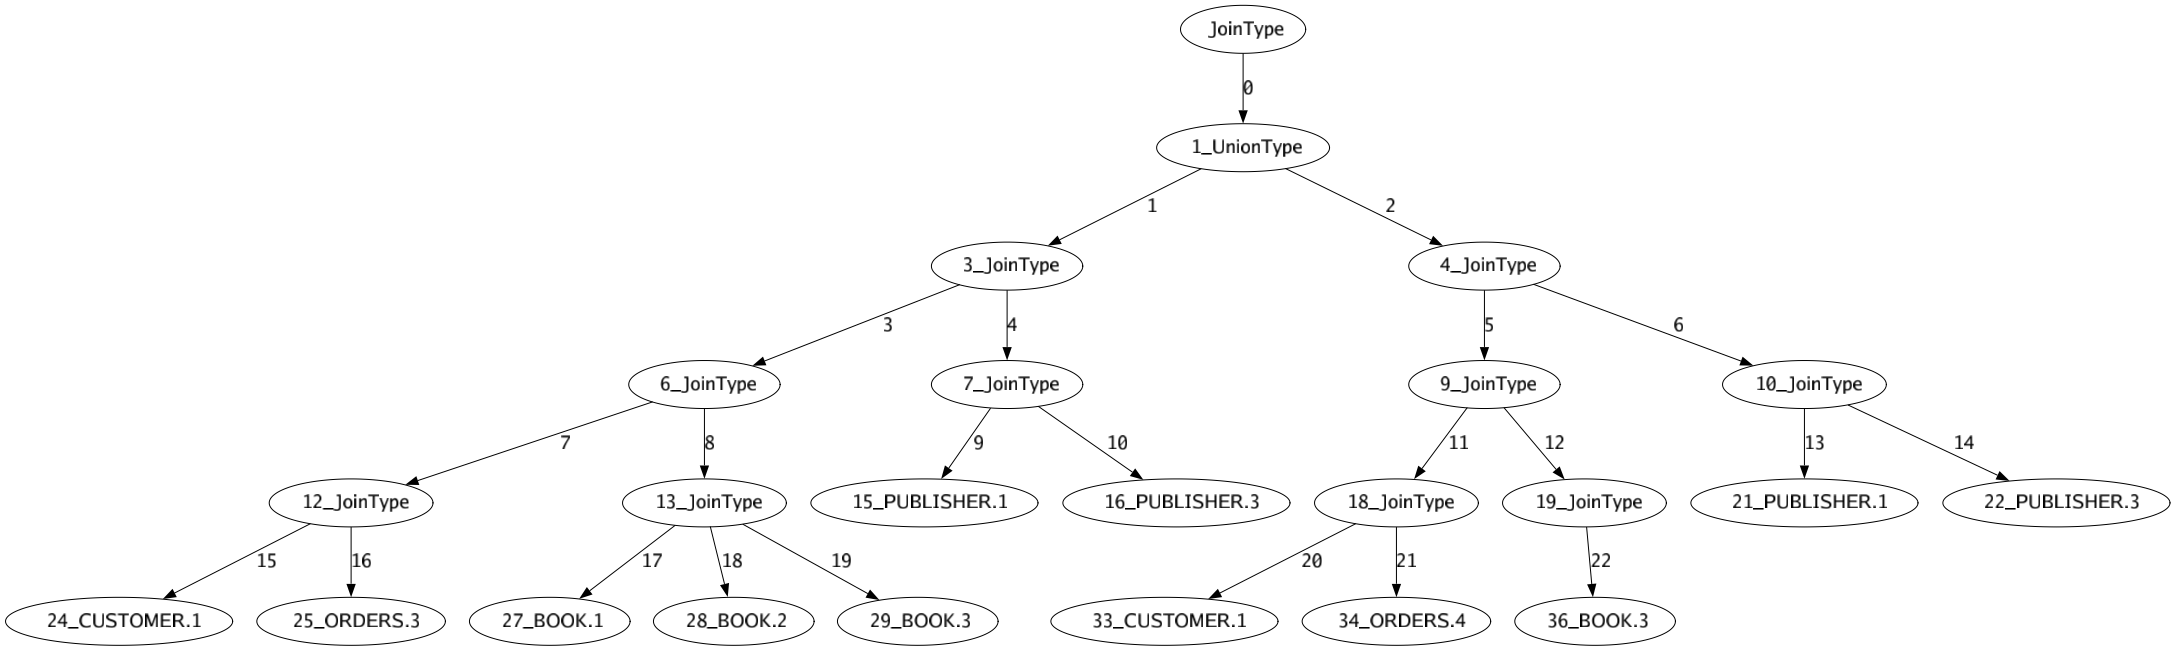
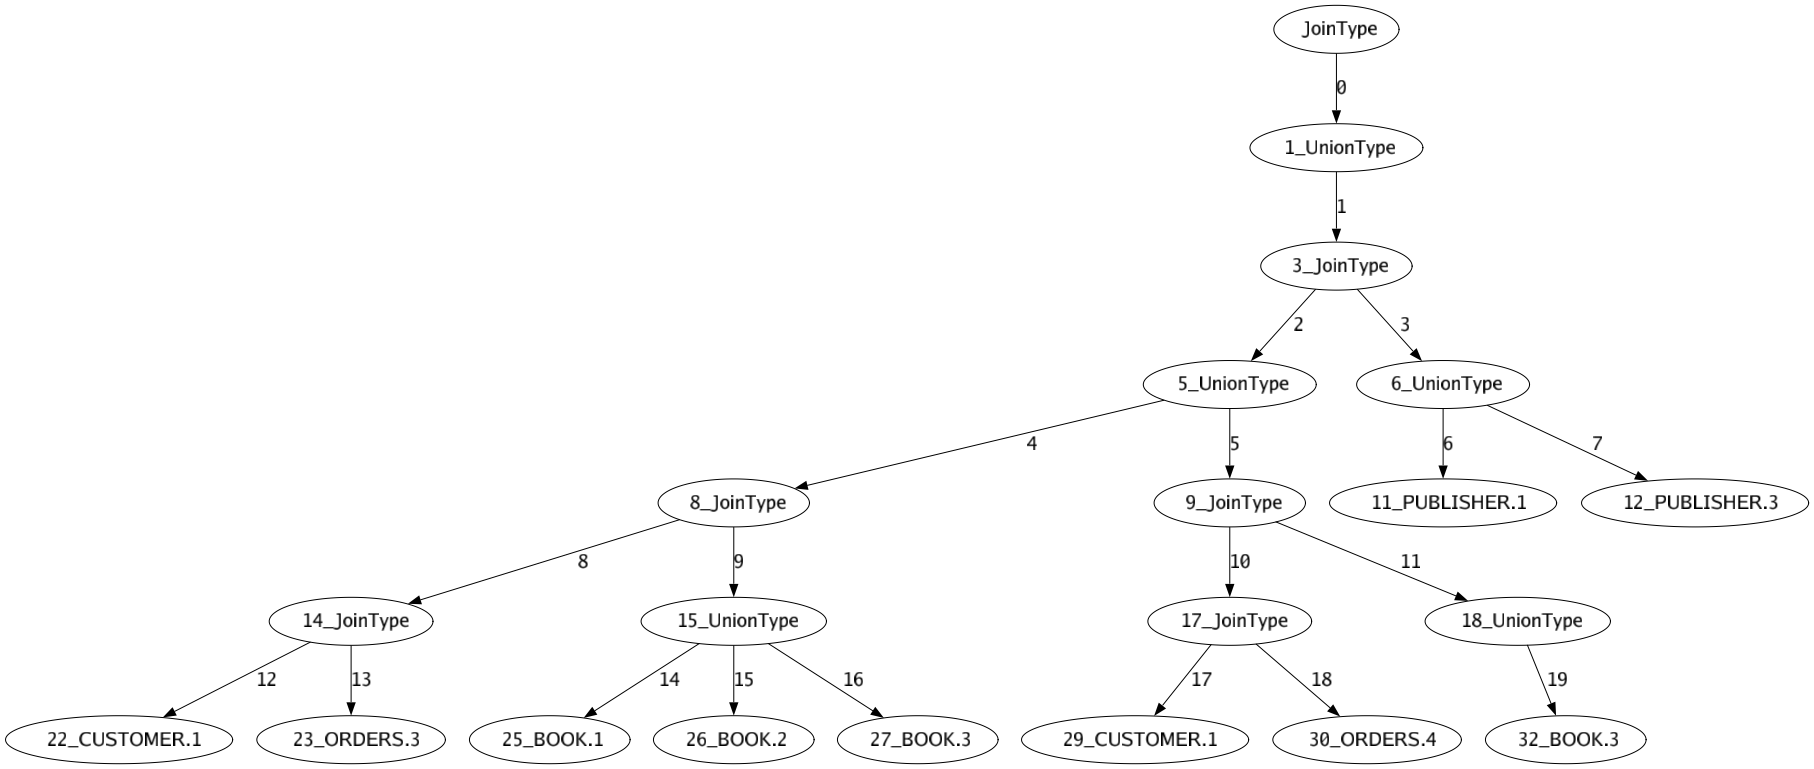
fix bug

diff --git a/plan/plan_test.go b/plan/plan_test.go
@@ -541,15 +541,6 @@ func PrintPlanTree(p *plan.PlanTreeNode) string {
 	return result
 }
 
-// type PrintTree struct {
-// 	children []*PrintTree
-// 	node     *cgraph.Node
-// }
-
-// func PrintPlanTreePlot(p *plan.PlanTreeNode) {
-
-// }
-
 func PrintPlanTreePlot(p *plan.PlanTreeNode) string {
 	edge_id := 0
 	node_id := 0
@@ -578,22 +569,10 @@ func PrintPlanTreePlot(p *plan.PlanTreeNode) string {
 
 		for index_, v := range queue {
 			//
-			if v.IsPruned {
-				continue
-			}
-
-			// var cur_node_val string
-			// if v.Type == plan.DataSourceType {
-			// 	cur_node_val = v.Type.String() + "[" + v.FromTableName + "]" + " "
-			// } else if v.Type == plan.JoinType || v.Type == plan.UnionType {
-			// 	cur_node_val = v.Type.String() + "[" + v.FromTableName + "]" + " "
-			// } else {
-			// 	cur_node_val = v.Type.String() + " "
+			// if v.IsPruned {
+			// 	continue
 			// }
 
-			// result += cur_node_val
-
-			// graphvis_queue[index_].Set(strconv.Itoa(node_id), cur_node_val)
 			node_id++
 
 			nums := v.GetChildrenNum()
@@ -602,11 +581,26 @@ func PrintPlanTreePlot(p *plan.PlanTreeNode) string {
 			}
 			for i := 0; i < nums; i++ {
 				cur_node := v.GetChild(i)
-
-				cur_val := cur_node.FromTableName
-				if strings.Contains(cur_val, "|") {
-					cur_val = cur_node.Type.String()
+				var cur_val string
+				if cur_node.Type == plan.ProjectionType {
+					cur_val = "Proj.["
+					for _, col_ := range cur_node.ColsName {
+						cur_val += col_ + " "
+					}
+					cur_val += "]"
+				} else if cur_node.Type == plan.SelectType {
+					cur_val = "Sel.["
+					for _, cond_ := range cur_node.ConditionsStr {
+						cur_val += cond_ + " "
+					}
+					cur_val += "]"
+				} else {
+					cur_val = cur_node.FromTableName
+					if strings.Contains(cur_val, "|") {
+						cur_val = cur_node.Type.String()
+					}
 				}
+
 				cur_node_graphvis, err := graph.CreateNode(strconv.Itoa(node_id) + "_" + cur_val)
 				node_id++
 
@@ -847,6 +841,23 @@ func GetCondition(expr *ast.BinaryOperationExpr) (ColType, ColType,
 	return left, right, left_attr, right_attr, left_val, right_val, nil
 }
 
+func TransExprNode2Str(expr *ast.BinaryOperationExpr) string {
+	left, right, left_attr, right_attr, _, right_val, _ := GetCondition(expr)
+	var left_str string
+	var right_str string
+
+	if left == AttrType && right == ValueType {
+		left_str = left_attr.Name.String()
+		right_str = right_val.GetDatumString() + strconv.Itoa(int(right_val.GetInt64()))
+	} else if left == AttrType && right == AttrType {
+		left_str = left_attr.Name.String()
+		right_str = right_attr.Name.String()
+	} else {
+		fmt.Println("not supported")
+	}
+	return left_str + " " + expr.Op.String() + " " + right_str
+}
+
 func PushDownPredicates(ctx Context, frag_node *plan.PlanTreeNode, where *plan.PlanTreeNode) (err error) {
 	for index_, cond_ := range where.Conditions {
 		expr, ok := cond_.(*ast.BinaryOperationExpr)
@@ -863,6 +874,7 @@ func PushDownPredicates(ctx Context, frag_node *plan.PlanTreeNode, where *plan.P
 			cur_table_name := strings.ToUpper(left_attr.Name.Table.String())
 			if strings.Contains(frag_node.FromTableName, cur_table_name) {
 				frag_node.Conditions = append(frag_node.Conditions, expr)
+				frag_node.ConditionsStr = append(frag_node.ConditionsStr, TransExprNode2Str(expr))
 				fmt.Println("Condition [" + strconv.FormatInt(int64(index_), 10) + "] adds to " + frag_node.FromTableName)
 			}
 
@@ -1401,11 +1413,13 @@ func PredicatePruning(ctx Context, from *plan.PlanTreeNode, where *plan.PlanTree
 	return PrunedNodeName, UnPrunedNodeName, err
 }
 
-func GetJoinSeq(ctx Context, from *plan.PlanTreeNode, where *plan.PlanTreeNode, PrunedNodeName []string) (mapset.Set, error) {
+func GetJoinSeq(ctx Context, from *plan.PlanTreeNode, where *plan.PlanTreeNode, PrunedNodeName []string) ([]string, error) {
 	// join sequence: A = B
 	var err error
-	join_seq := mapset.NewSet()
-	join_table_set := mapset.NewSet()
+	var join_seq []string
+	var join_table_set []string
+	// join_seq := mapset.NewSet()
+	// join_table_set := mapset.NewSet()
 
 	for _, cond_ := range where.Conditions {
 		// join table by the where predicates
@@ -1426,10 +1440,14 @@ func GetJoinSeq(ctx Context, from *plan.PlanTreeNode, where *plan.PlanTreeNode, 
 			}
 			//
 			join_str := l_table + "=" + r_table
-			if !join_seq.Contains(join_str) {
-				join_seq.Add(join_str)
-				join_table_set.Add(l_table)
-				join_table_set.Add(r_table)
+			if FindStr(join_seq, join_str) == -1 {
+				// if !join_seq.Contains(join_str) {
+				// join_seq.Add(join_str)
+				join_seq = append(join_seq, join_str)
+				join_table_set = append(join_table_set, l_table)
+				join_table_set = append(join_table_set, r_table)
+				// join_table_set.Add(l_table)
+				// join_table_set.Add(r_table)
 			}
 		}
 	}
@@ -1437,21 +1455,26 @@ func GetJoinSeq(ctx Context, from *plan.PlanTreeNode, where *plan.PlanTreeNode, 
 	// get join from the remaining table
 	for i := 0; i < from.GetChildrenNum(); i++ {
 		child := from.GetChild(i)
-		if join_table_set.Contains(child.FromTableName) {
+		// if join_table_set.Contains(child.FromTableName) {
+		if FindStr(join_table_set, child.FromTableName) != -1 {
 			continue
 		} else {
 			//
-			iter := join_table_set.Iterator()
-			for elem := range iter.C {
-				cur_head_table := elem.(*string)
-				join_str := *cur_head_table + "=" + child.FromTableName
-				if join_seq.Contains(join_str) {
+			// iter := join_table_set.Iterator()
+			// for elem := range iter.C {
+			for _, elem := range join_table_set {
+				cur_head_table := elem // elem.(*string)
+				join_str := cur_head_table + "=" + child.FromTableName
+
+				if FindStr(join_seq, join_str) != -1 {
+					// if join_seq.Contains(join_str) {
 					return join_seq, errors.New("join_seq.Contains(join_str) should not contain" + join_str)
 				}
-
-				join_seq.Add(join_str)
-				join_table_set.Add(child.FromTableName)
-				iter.Stop()
+				join_seq = append(join_seq, join_str)
+				// join_seq.Add(join_str)
+				join_table_set = append(join_table_set, child.FromTableName)
+				// join_table_set.Add(child.FromTableName)
+				// iter.Stop()
 			}
 		}
 	}
@@ -1514,6 +1537,7 @@ func FindJoinNode(table_name_left string, table_name string, UnPrunedNodeName []
 
 func JoinUsingPruning(ctx Context, from *plan.PlanTreeNode, where *plan.PlanTreeNode,
 	PrunedNodeName []string, UnPrunedNodeName []string) (*plan.PlanTreeNode, error) {
+	//
 
 	var new_joined_node *plan.PlanTreeNode
 	var err error
@@ -1525,9 +1549,10 @@ func JoinUsingPruning(ctx Context, from *plan.PlanTreeNode, where *plan.PlanTree
 		return new_joined_node, err
 	}
 	// join all tables
-	it := join_seq.Iterator()
-	for elem := range it.C {
-		join_str_ := elem.(string)
+	// it := join_seq.Iterator()
+	// for elem := range it.C {
+	for _, elem := range join_seq {
+		join_str_ := elem // .(string)
 		join_strs := strings.Split(join_str_, "=")
 		l_table := strings.Trim(join_strs[0], " ")
 		r_table := strings.Trim(join_strs[1], " ")
@@ -1549,6 +1574,8 @@ func JoinUsingPruning(ctx Context, from *plan.PlanTreeNode, where *plan.PlanTree
 			FromTableName: l_table_node.FromTableName + "|" + r_table_node.FromTableName,
 		}.Init()
 
+		s_whole_right := mapset.NewSet()
+		var r_whole_frag_join_ *plan.PlanTreeNode
 		// start to join one by one
 		for i := 0; i < l_table_node.GetChildrenNum(); i++ {
 			cur_l_frag := *l_table_node.GetChild(i)
@@ -1569,15 +1596,16 @@ func JoinUsingPruning(ctx Context, from *plan.PlanTreeNode, where *plan.PlanTree
 			if is_union_able {
 				//TODO: joinable frags prefer to union or join together first
 				// maybe optimized
-				var r_frags_join_type plan.NodeType
-				r_frags_type := ReturnFragType(ctx, r_table)
-				if strings.EqualFold(r_frags_type, "VERTICAL") {
-					r_frags_join_type = plan.UnionType
-				} else {
-					r_frags_join_type = plan.JoinType
-				}
+				// var r_frags_join_type plan.NodeType
+				// r_frags_type := ReturnFragType(ctx, r_table)
+				// if strings.EqualFold(r_frags_type, "VERTICAL") {
+				// 	r_frags_join_type = plan.UnionType
+				// } else {
+				// 	r_frags_join_type = plan.JoinType
+				// }
 				r_frag_join_ = plan.PlanTreeNode{
-					Type: r_frags_join_type,
+					// Type: r_frags_join_type,
+					Type: plan.UnionType,
 				}.Init()
 			}
 
@@ -1621,10 +1649,37 @@ func JoinUsingPruning(ctx Context, from *plan.PlanTreeNode, where *plan.PlanTree
 					new_join.AddChild(r_frag_join_)
 
 					new_union.AddChild(new_join)
+					// r_frag_join_
+					s_whole_right.Add(r_frag_join_.FromTableName)
+					r_whole_frag_join_ = r_frag_join_
 				}
 			}
 		}
 
+		if s_whole_right.Cardinality() == 1 {
+			// whole right is the same, join together
+			new_union.RemoveAllChild()
+
+			new_union_left := plan.PlanTreeNode{
+				Type:          plan.UnionType,
+				FromTableName: "UnionType",
+			}.Init()
+
+			for i := 0; i < l_table_node.GetChildrenNum(); i++ {
+				cur_l_frag := *l_table_node.GetChild(i)
+				new_union_left.AddChild(&cur_l_frag)
+			}
+
+			new_union_join := plan.PlanTreeNode{
+				Type:          plan.JoinType,
+				FromTableName: "JoinType",
+			}.Init()
+
+			new_union_join.AddChild(new_union_left)
+			new_union_join.AddChild(r_whole_frag_join_)
+
+			new_union.AddChild(new_union_join)
+		}
 		//
 		if index_l > index_r {
 			from.RemoveChild(index_l)
@@ -1638,11 +1693,50 @@ func JoinUsingPruning(ctx Context, from *plan.PlanTreeNode, where *plan.PlanTree
 			// joined successfully
 			from.AddChild(new_union)
 		}
+		// test
+		PrintPlanTreePlot(from)
 	}
 
 	new_joined_node = from
 
 	return new_joined_node, err
+}
+
+func AddProjectionAndSelectionNode(ctx Context, from *plan.PlanTreeNode, node_index_ int, parent *plan.PlanTreeNode) error {
+	var err error
+	if from.GetChildrenNum() == 0 {
+		if from.Type != plan.DataSourceType {
+			err = errors.New("from.Type != plan.DataSourceType ")
+			return err
+		}
+		// frag node
+		select_node := plan.PlanTreeNode{
+			Type:          plan.SelectType,
+			Conditions:    from.Conditions,
+			ConditionsStr: from.ConditionsStr,
+		}.Init()
+
+		proj_node := plan.PlanTreeNode{
+			Type:     plan.ProjectionType,
+			ColsName: from.ColsName,
+		}.Init()
+
+		select_node.SetChildren(proj_node)
+		proj_node.SetChildren(from)
+
+		if parent == nil && parent.GetChildrenNum() < node_index_ {
+			return errors.New("unkown error")
+		}
+		parent.ResetChild(node_index_, select_node)
+	} else {
+		for i := 0; i < from.GetChildrenNum(); i++ {
+			err := AddProjectionAndSelectionNode(ctx, from.GetChild(i), i, from)
+			if err != nil {
+				return err
+			}
+		}
+	}
+	return err
 }
 
 func HandleSelect(ctx Context, sel *ast.SelectStmt) (p *plan.PlanTreeNode, err error) {
@@ -1712,6 +1806,10 @@ func HandleSelect(ctx Context, sel *ast.SelectStmt) (p *plan.PlanTreeNode, err e
 		return p, err
 	}
 
+	// err = AddProjectionAndSelectionNode(ctx, new_joined_tree, 0, nil)
+	// if err != nil {
+	// 	return p, err
+	// }
 	PrintPlanTreePlot(new_joined_tree)
 	return p, err
 }

diff --git a/plan/plan.go b/plan/plan.go
@@ -51,7 +51,8 @@ type PlanTreeNode struct {
 	DestCoordintorId int    // fragment
 	FromTableName    string // valid if NodeType = DataSource
 	// SelectType
-	Conditions []ast.ExprNode
+	Conditions    []ast.ExprNode
+	ConditionsStr []string
 
 	// ProjectionType
 	ColsName []string
@@ -73,8 +74,12 @@ func (p PlanTreeNode) GetChildrenNum() int {
 	return len(p.children)
 }
 
-func (p PlanTreeNode) GetChild(index int) *PlanTreeNode {
+func (p *PlanTreeNode) GetChild(index int) *PlanTreeNode {
 	return p.children[index]
+}
+
+func (p *PlanTreeNode) ResetChild(index int, new_ *PlanTreeNode) {
+	p.children[index] = new_
 }
 
 func (p *PlanTreeNode) AddChild(new_child *PlanTreeNode) {
@@ -83,4 +88,11 @@ func (p *PlanTreeNode) AddChild(new_child *PlanTreeNode) {
 
 func (p *PlanTreeNode) RemoveChild(index int) {
 	p.children = append(p.children[:index], p.children[index+1:]...)
+}
+
+func (p *PlanTreeNode) RemoveAllChild() {
+	len := p.GetChildrenNum()
+	for i := 0; i < len; i++ {
+		p.RemoveChild(0)
+	}
 }
